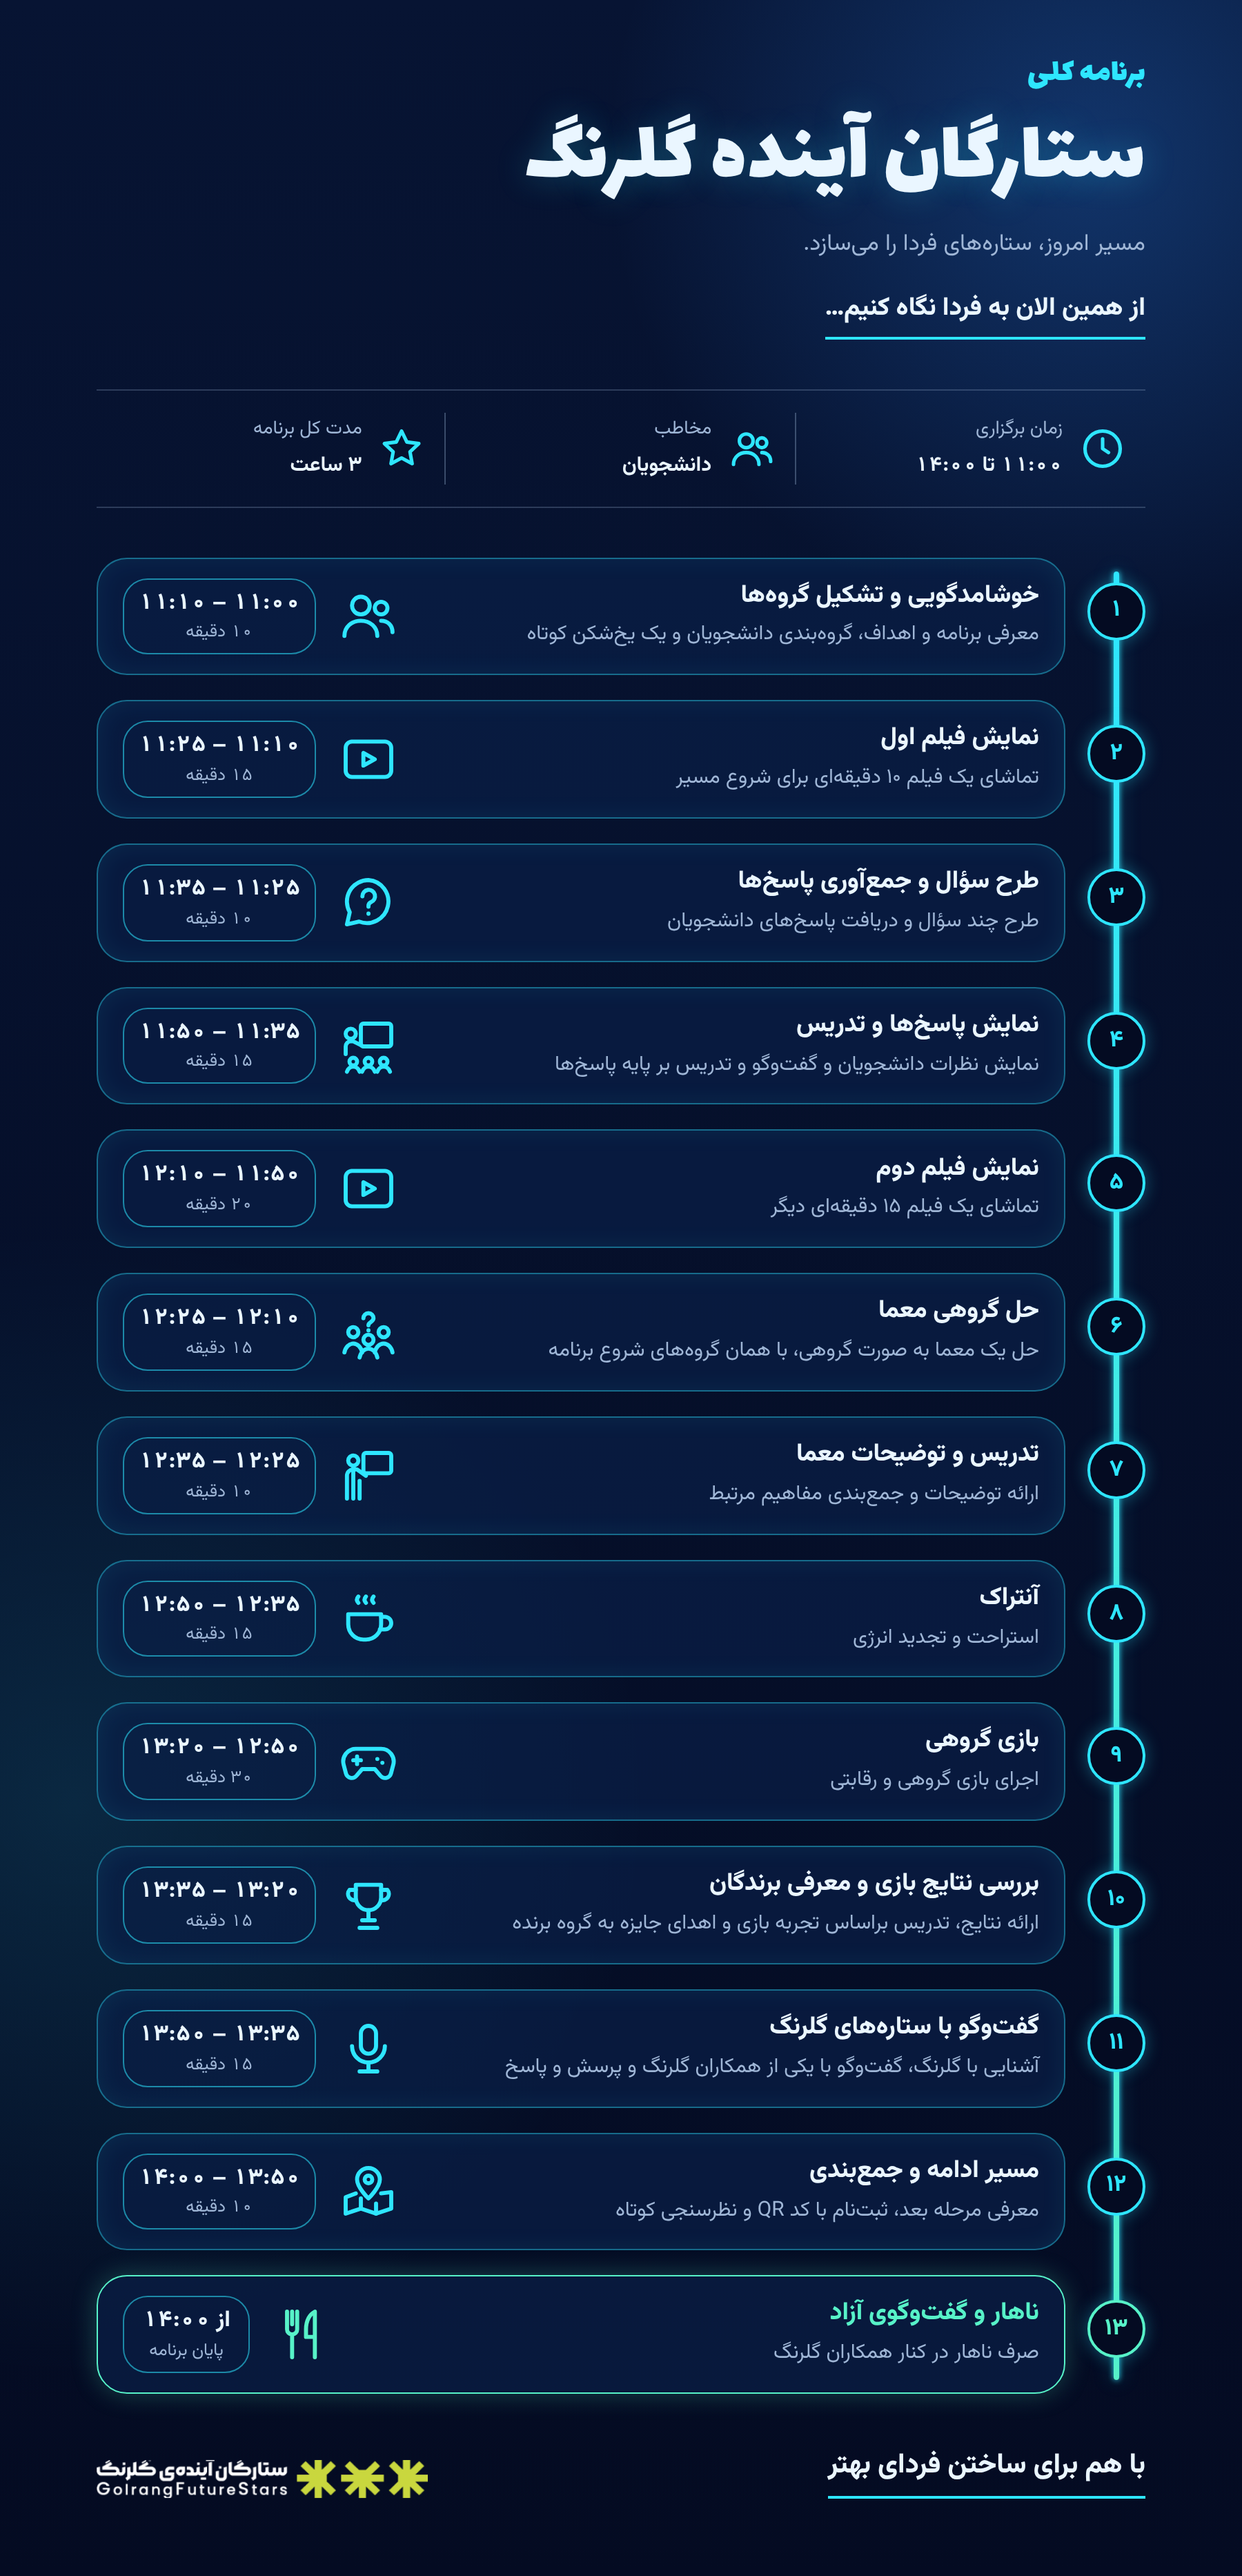
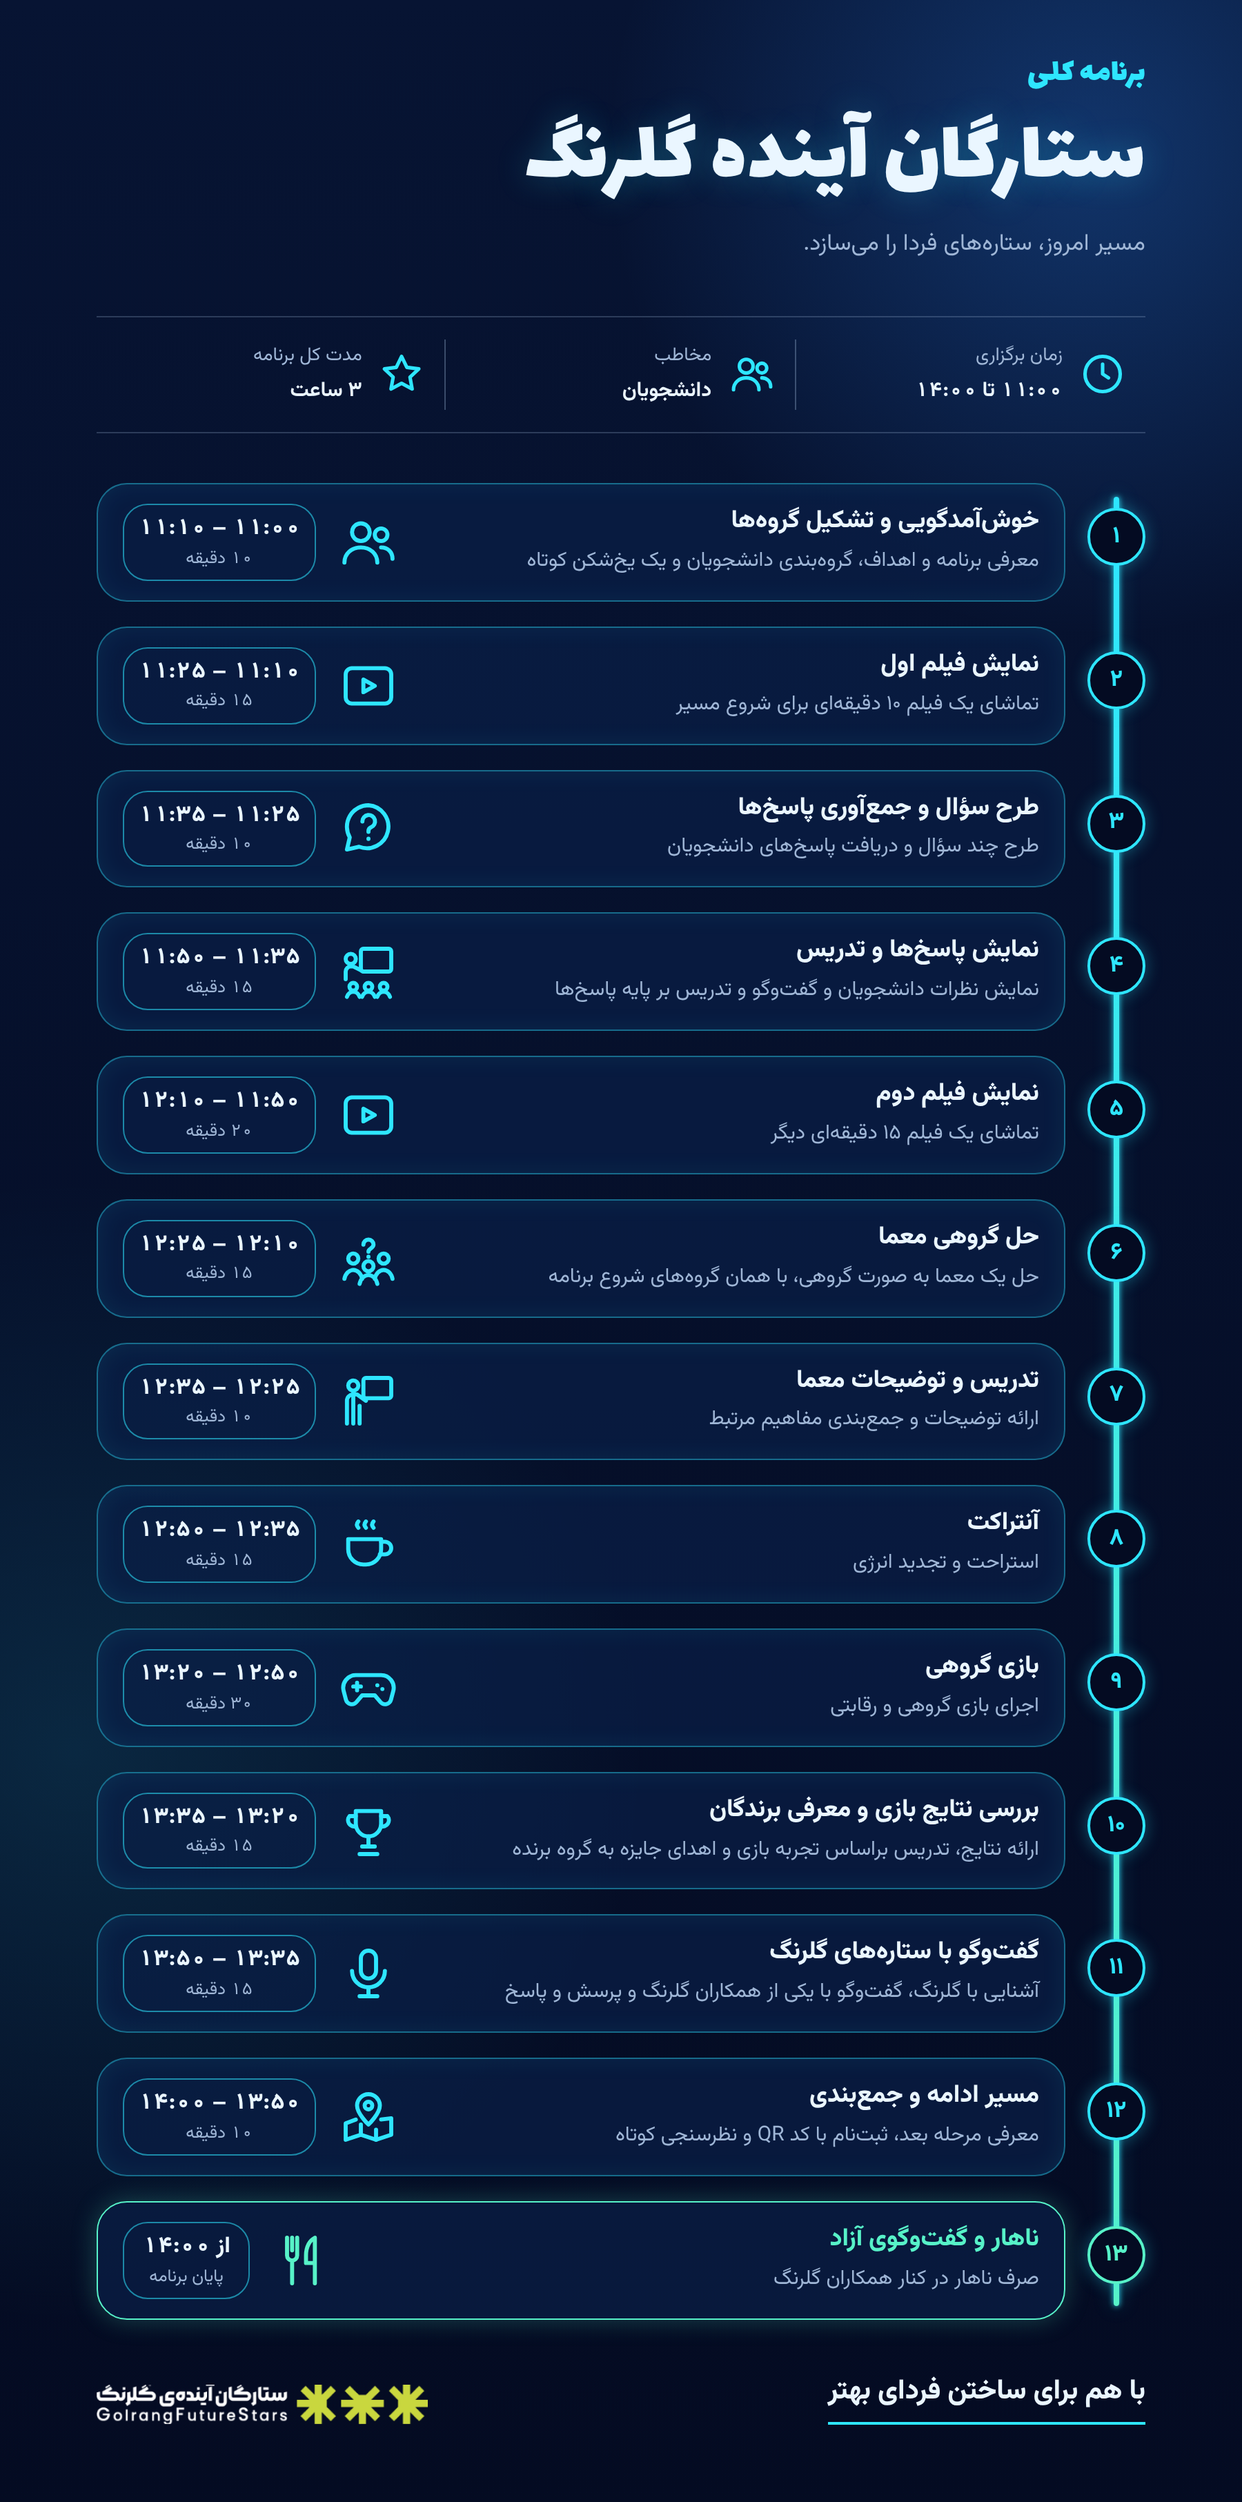
Polish schedule wording and drop the header tagline
Spells out welcome and intermission, and removes the look-ahead line.

Claude-Session: https://claude.ai/code/session_01XUp6HRmGybdads2pGxp3Aj

diff --git a/programs/golrang-future-stars.html b/programs/golrang-future-stars.html
@@ -46,10 +46,6 @@ h1 {
   text-shadow: 0 0 24px rgba(46, 230, 255, 0.25);
 }
 .tagline { margin: 0; color: var(--muted); font-size: 1.05rem; }
-.lookahead {
-  margin: 6px 0 0; font-weight: 800; font-size: 1.15rem; line-height: 1.6;
-  padding-bottom: 6px; border-bottom: 2px solid var(--glow); justify-self: start;
-}
 
 /* Facts row */
 .facts {
@@ -120,7 +116,6 @@ footer { display: flex; justify-content: space-between; align-items: end; gap: 2
     <p class="eyebrow">برنامه کلی</p>
     <h1>ستارگان آینده گلرنگ</h1>
     <p class="tagline">مسیر امروز، ستارههای فردا را میسازد.</p>
-    <p class="lookahead">از همین الان به فردا نگاه کنیم…</p>
   </header>
 
   <section class="facts" aria-label="مشخصات برنامه">
@@ -142,7 +137,7 @@ footer { display: flex; justify-content: space-between; align-items: end; gap: 2
     <li class="step">
       <span class="badge">۱</span>
       <div class="card">
-        <div><h2>خوشامدگویی و تشکیل گروهها</h2><p>معرفی برنامه و اهداف، گروهبندی دانشجویان و یک یخشکن کوتاه</p></div>
+        <div><h2>خوشآمدگویی و تشکیل گروهها</h2><p>معرفی برنامه و اهداف، گروهبندی دانشجویان و یک یخشکن کوتاه</p></div>
         <svg class="icon" viewBox="0 0 24 24" fill="none" stroke="currentColor" stroke-width="1.6" stroke-linecap="round" stroke-linejoin="round" aria-hidden="true"><circle cx="9" cy="8" r="3.5"/><path d="M2.5 20c0-3.6 2.9-6 6.5-6s6.5 2.4 6.5 6"/><circle cx="17" cy="9" r="2.5"/><path d="M17 14c2.6 0 4.5 1.8 4.5 4.5"/></svg>
         <div class="time"><b>۱۱:۰۰ – ۱۱:۱۰</b><small>۱۰ دقیقه</small></div>
       </div>
@@ -198,7 +193,7 @@ footer { display: flex; justify-content: space-between; align-items: end; gap: 2
     <li class="step">
       <span class="badge">۸</span>
       <div class="card">
-        <div><h2>آنتراک</h2><p>استراحت و تجدید انرژی</p></div>
+        <div><h2>آنتراکت</h2><p>استراحت و تجدید انرژی</p></div>
         <svg class="icon" viewBox="0 0 24 24" fill="none" stroke="currentColor" stroke-width="1.6" stroke-linecap="round" stroke-linejoin="round" aria-hidden="true"><path d="M4 10h13v4a6 6 0 0 1-6 6h-1a6 6 0 0 1-6-6z"/><path d="M17 11h1.5a2.5 2.5 0 0 1 0 5H16.5"/><path d="M8 3c-.7.8-.7 1.7 0 2.5M11 3c-.7.8-.7 1.7 0 2.5M14 3c-.7.8-.7 1.7 0 2.5"/></svg>
         <div class="time"><b>۱۲:۳۵ – ۱۲:۵۰</b><small>۱۵ دقیقه</small></div>
       </div>
